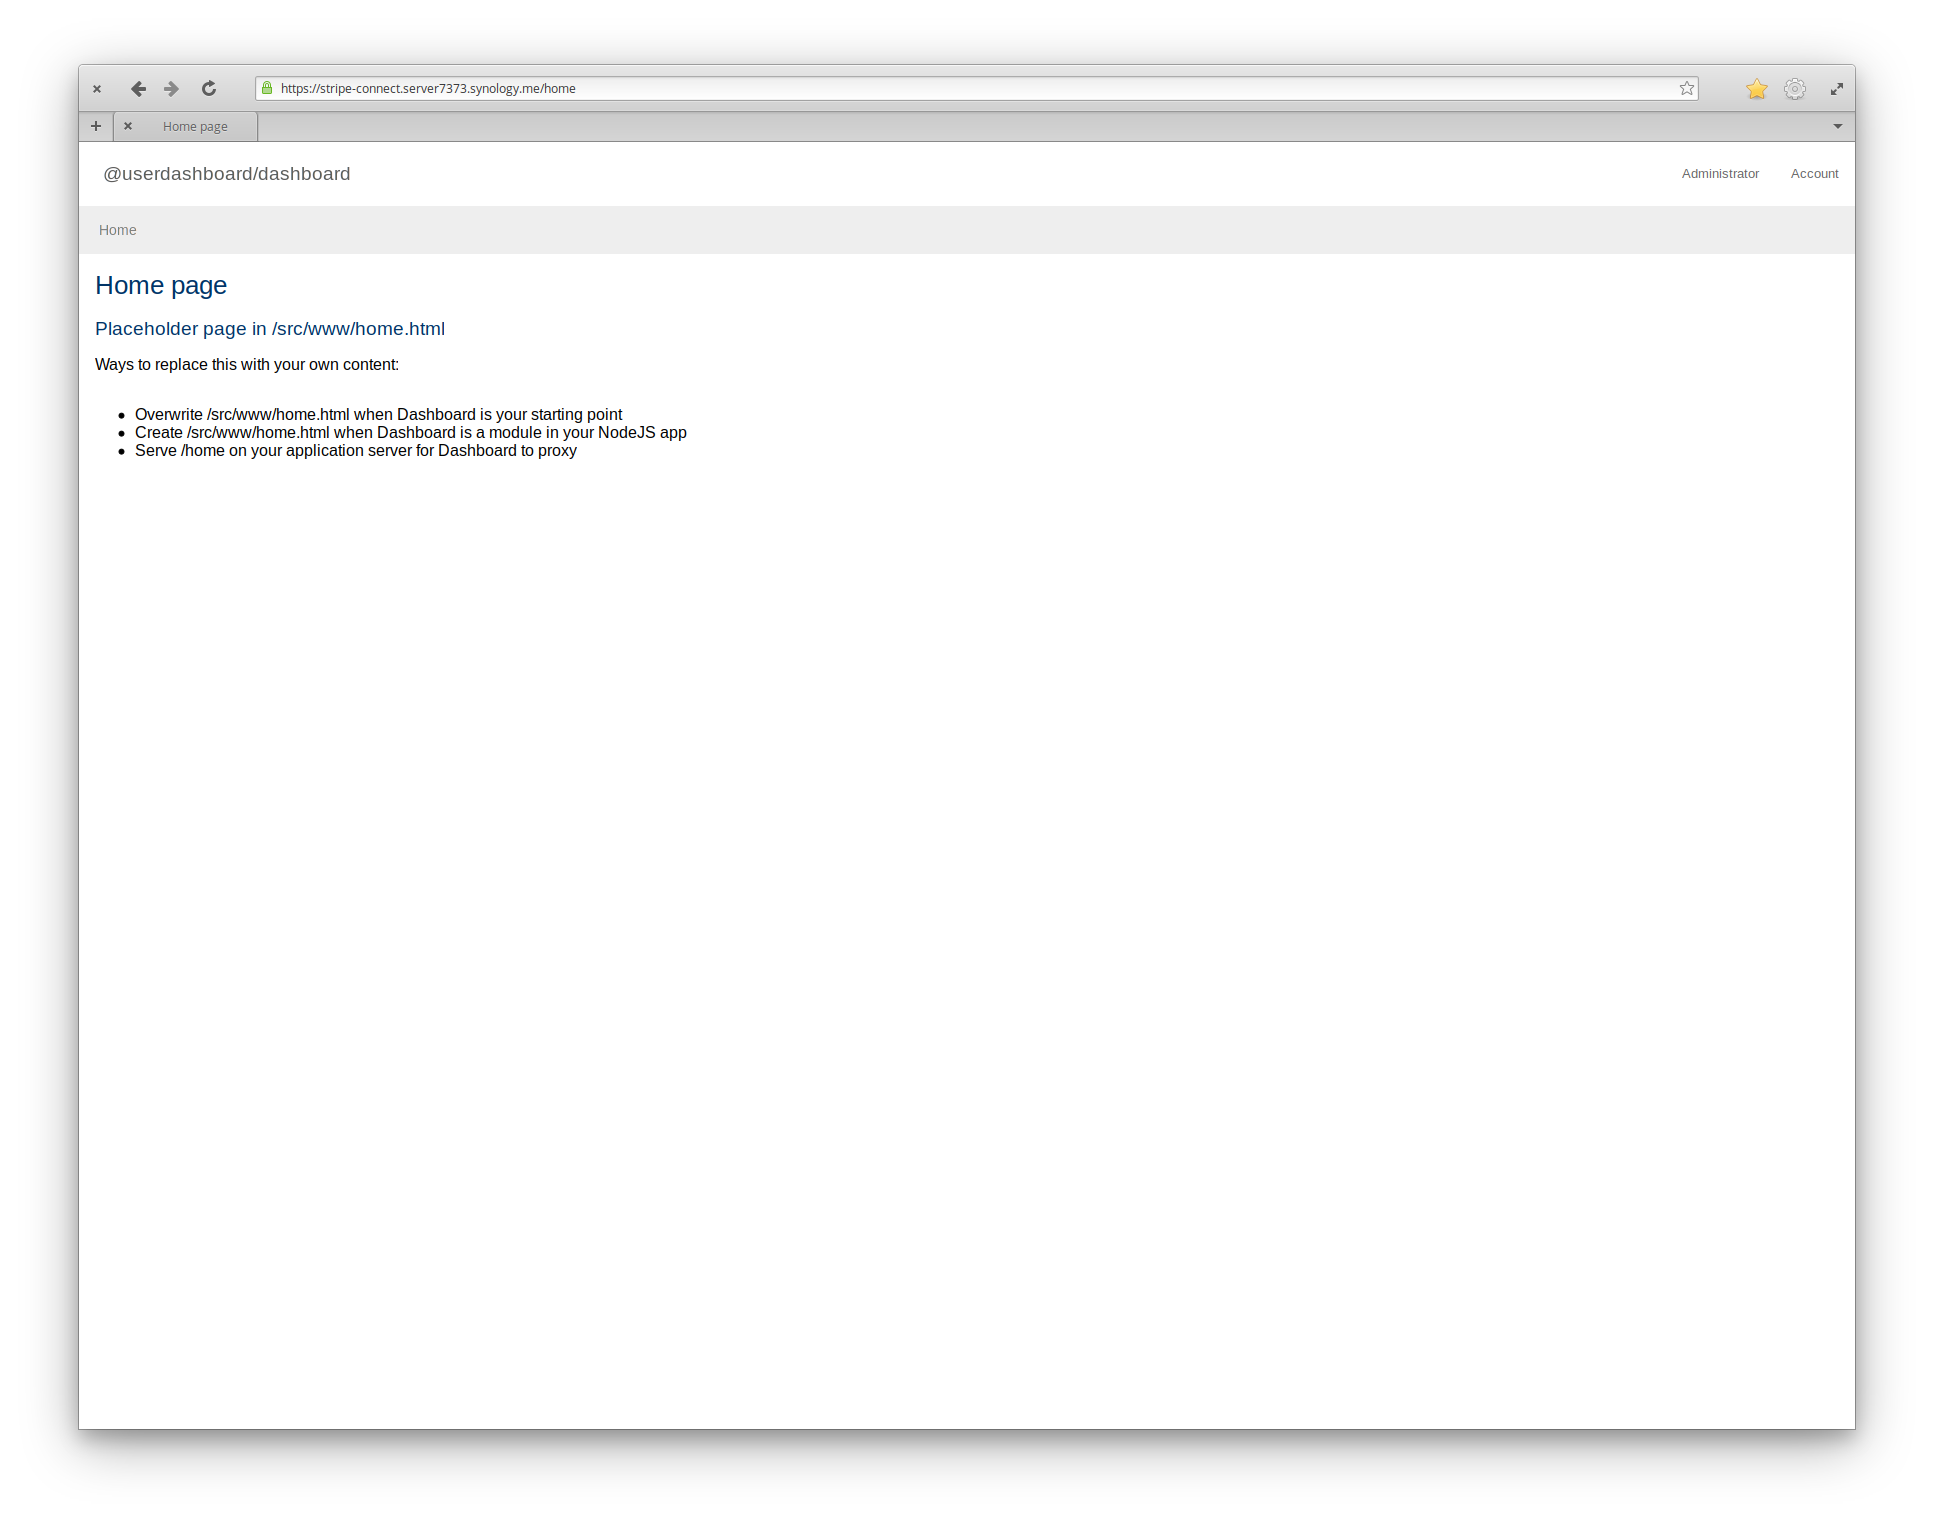
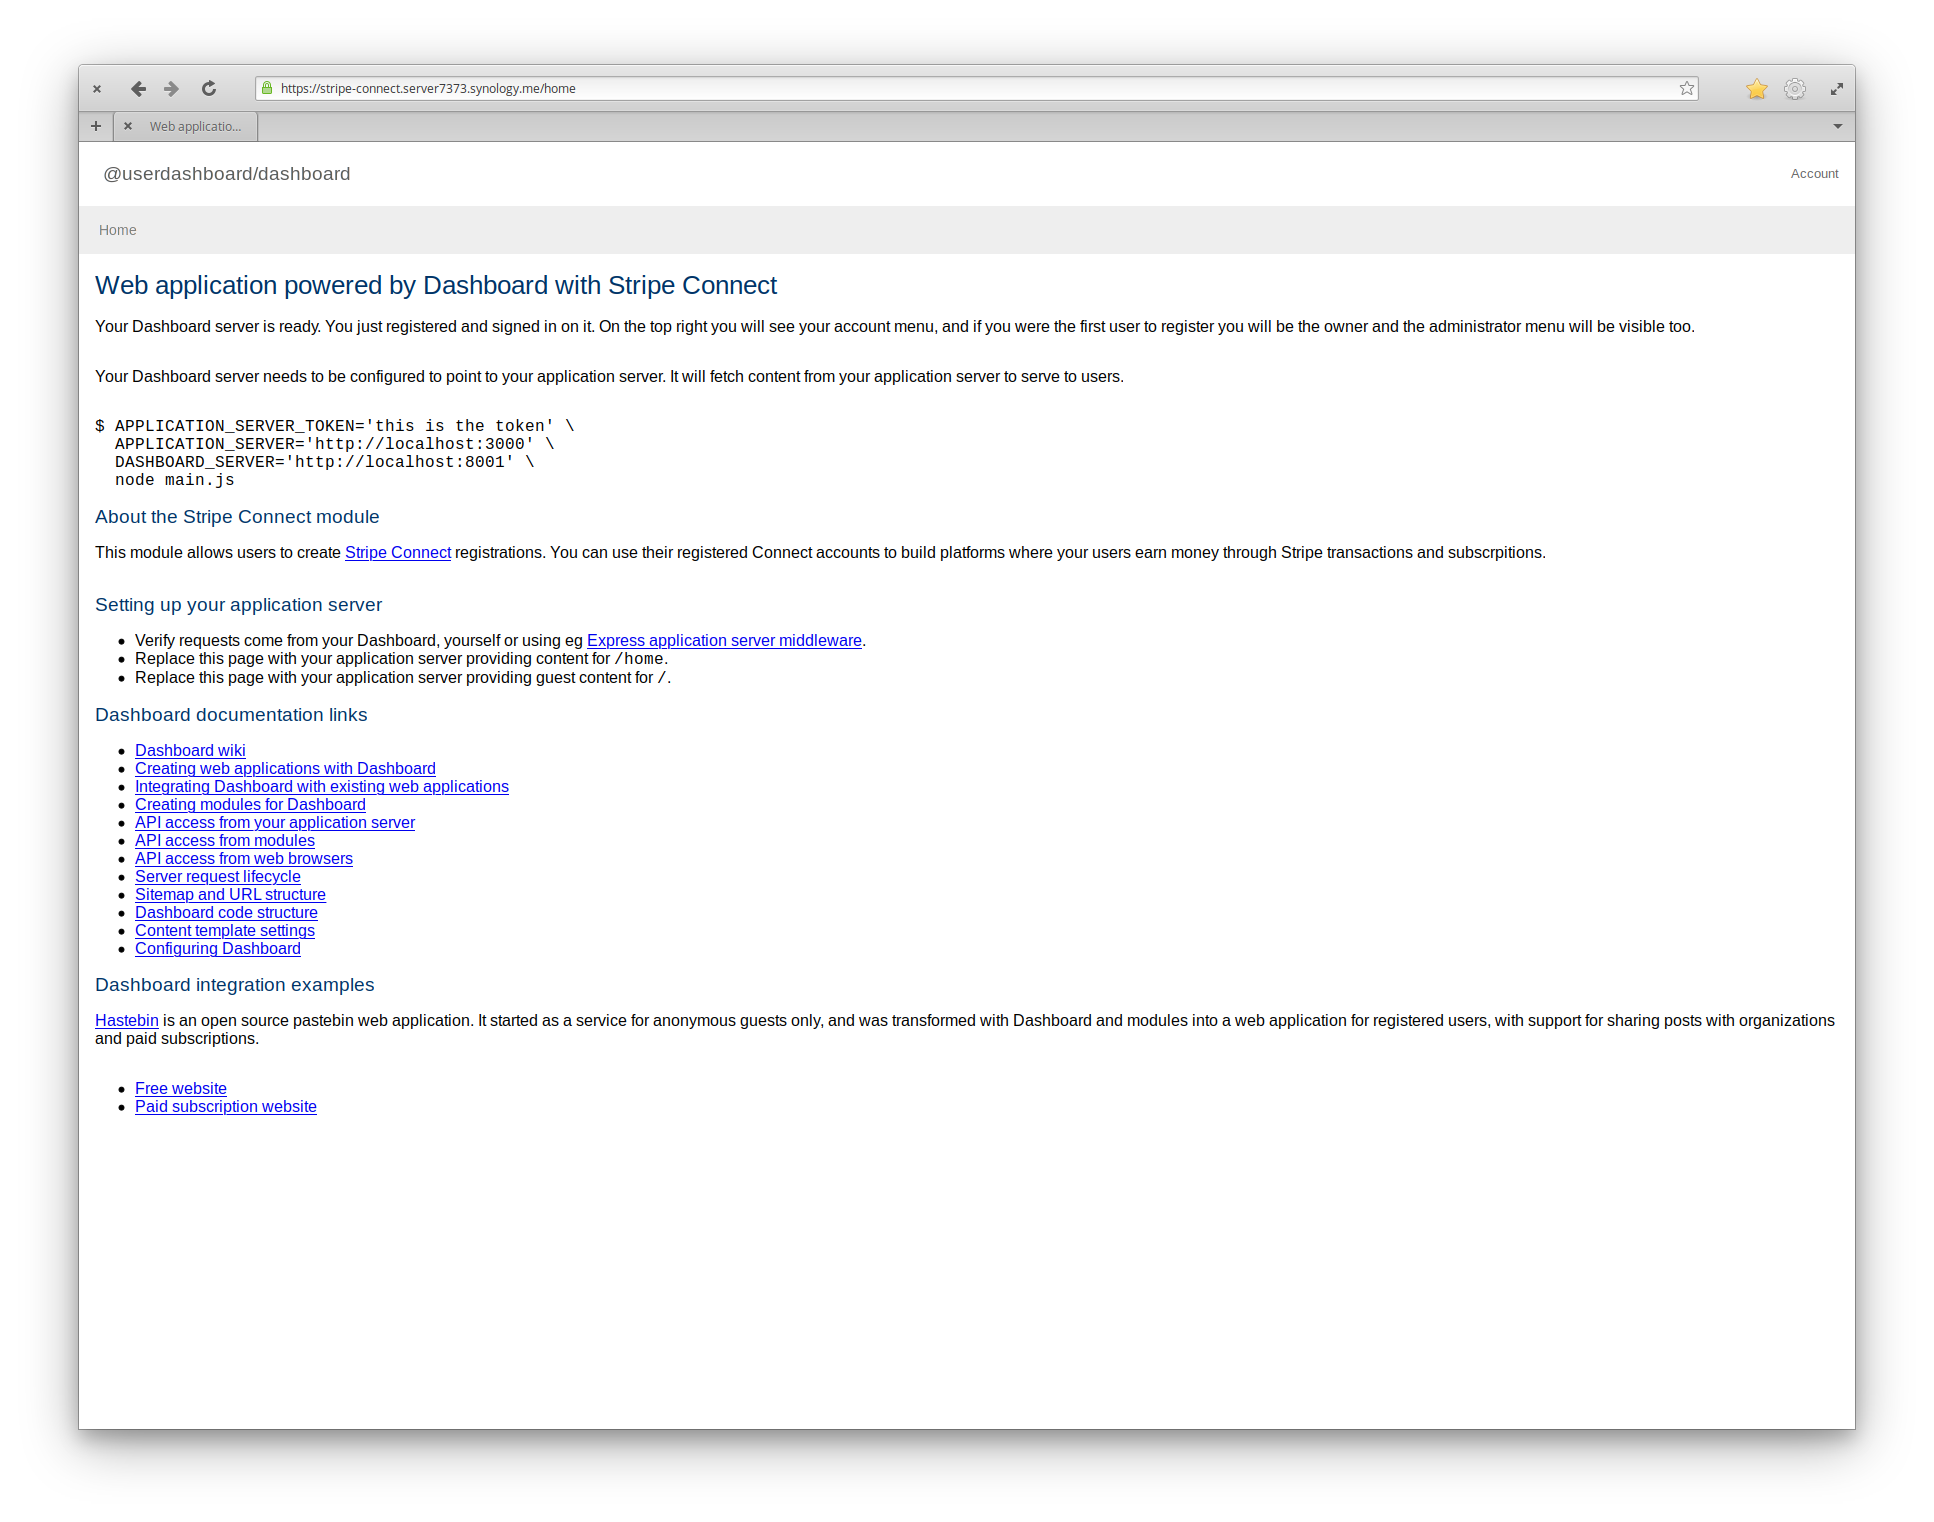
Updated sample home page with documentation links

diff --git a/src/www/home.html b/src/www/home.html
@@ -1,0 +1,49 @@
+<html>
+  <head>
+    <title>Web application powered by Dashboard with Stripe Connect</title>
+    <link href="/public/pure-min.css" rel="stylesheet" />
+    <link href="/public/content.css" rel="stylesheet" />
+    <template id="navbar">
+      <a href="home">Home</a>
+    </template>
+    <base target="_top" href="/" />
+  </head>
+  <body>
+    <h1>Web application powered by Dashboard with Stripe Connect</h1>
+    <p>Your Dashboard server is ready.  You just registered and signed in on it.  On the top right you will see your account menu, and if you were the first user to register you will be the owner and the administrator menu will be visible too.</p>  
+    <p>Your Dashboard server needs to be configured to point to your application server. It will fetch content from your application server to serve to users.</p>
+<pre>$ APPLICATION_SERVER_TOKEN="this is the token" \
+  APPLICATION_SERVER="http://localhost:3000" \
+  DASHBOARD_SERVER="http://localhost:8001" \
+  node main.js</pre>
+    <h2>About the Stripe Connect module</h2>
+    <p>This module allows users to create <a href="https://stripe.com/connect">Stripe Connect</a> registrations.  You can use their registered Connect accounts to build platforms where your users earn money through Stripe transactions and subscrpitions.</p>
+    <h2>Setting up your application server</h2>
+    <ul>
+      <li>Verify requests come from your Dashboard, yourself or using eg <a href="https://github.com/userdashboard/express-application-server">Express application server middleware</a>.</li>
+      <li>Replace this page with your application server providing content for <code>/home</code>.</li>
+      <li>Replace this page with your application server providing guest content for <code>/</code>.</li>
+    </ul>
+    <h2>Dashboard documentation links</h2>
+    <ul>
+      <li><a href="https://github.com/userdashboard/dashboard/wiki">Dashboard wiki</a></li>
+      <li><a href="https://github.com/userdashboard/dashboard/wiki/Creating-web-applications-with-Dashboard">Creating web applications with Dashboard</a></li>
+      <li><a href="https://github.com/userdashboard/dashboard/wiki/Integrating-Dashboard-with-existing-web-applications">Integrating Dashboard with existing web applications</a></li>
+      <li><a href="https://github.com/userdashboard/dashboard/wiki/Creating-modules-for-Dashboard">Creating modules for Dashboard</a></li>
+      <li><a href="https://github.com/userdashboard/dashboard/wiki/API-access-from-application-server">API access from your application server</a></li>
+      <li><a href="https://github.com/userdashboard/dashboard/wiki/API-access-from-module">API access from modules</a></li>
+      <li><a href="https://github.com/userdashboard/dashboard/wiki/API-access-from-web-browser">API access from web browsers</a></li>
+      <li><a href="https://github.com/userdashboard/dashboard/wiki/Server-request-lifecycle">Server request lifecycle</a></li>
+      <li><a href="https://github.com/userdashboard/dashboard/wiki/Sitemap-and-URL-structure">Sitemap and URL structure</a></li>
+      <li><a href="https://github.com/userdashboard/dashboard/wiki/Dashboard-code-structure">Dashboard code structure</a></li>
+      <li><a href="https://github.com/userdashboard/dashboard/wiki/Content-template-settings">Content template settings</a></li>
+      <li><a href="https://github.com/userdashboard/dashboard/wiki/Configuring-Dashboard">Configuring Dashboard</a></li> 
+    </ul>
+    <h2>Dashboard integration examples</h2>
+    <p><a href="https://github.com/seejohnrun/haste-server">Hastebin</a> is an open source pastebin web application.  It started as a service for anonymous guests only, and was transformed with Dashboard and modules into a web application for registered users, with support for sharing posts with organizations and paid subscriptions.</p>
+    <ul>
+      <li><a href="https://github.com/userdashboard/integration-examples/blob/master/hastebin/hastebin-saas-free.md">Free website</a></li>
+      <li><a href="https://github.com/userdashboard/integration-examples/blob/master/hastebin/hastebin-saas-subscription.md">Paid subscription website</a></li>
+    </ul>
+  </body> 
+</html>
